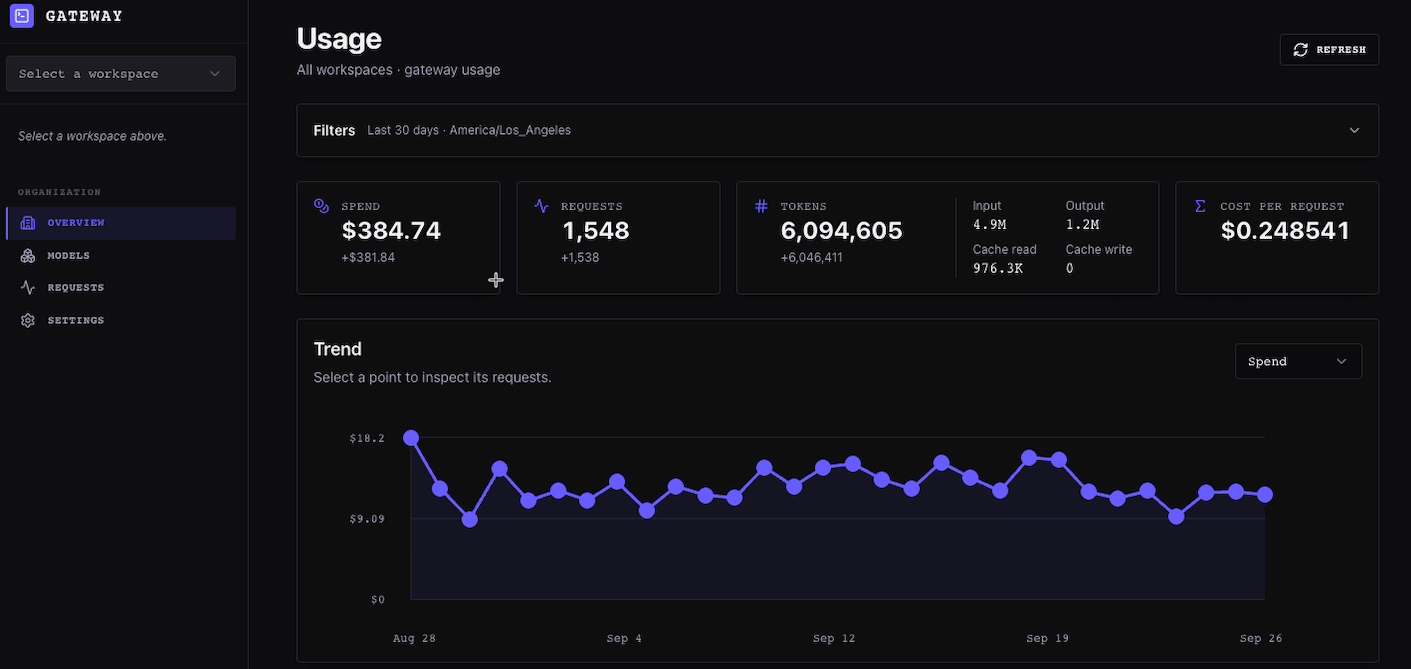
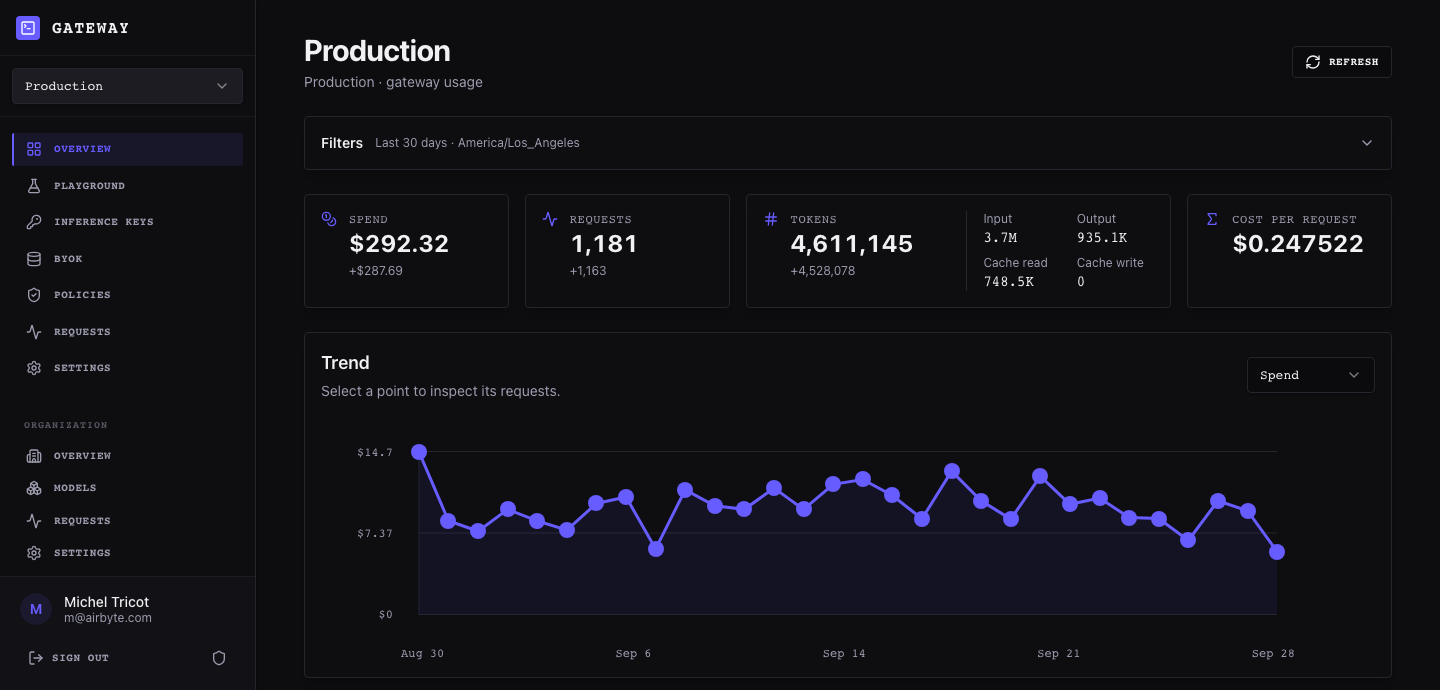
Show Production workspace in README screenshot

diff --git a/README.md b/README.md
@@ -1,7 +1,7 @@
 # `airmux`
 
-`airmux` is a self-hosted gateway between your app and its LLM providers. Change the client's base URL and API key;
-keep using Chat Completions, Responses, or Messages.
+`airmux` is a self-hosted gateway between your agents and their LLM providers. Change the client's base URL and API key and
+keep using `Chat Completions`, `Responses`, or `Messages` endpoints.
 
 <div align="center">
   <p>
@@ -18,9 +18,9 @@ keep using Chat Completions, Responses, or Messages.
   </p>
 </div>
 
-![Organization usage dashboard showing spend, requests, tokens, cost per request, and a trend chart](docs/images/readme-screenshot.png)
+![Production workspace usage dashboard showing spend, requests, tokens, cost per request, and a trend chart](docs/images/readme-screenshot.png)
 
-*Example organization usage in the webapp, using synthetic data*
+*Example Production workspace usage in the webapp, using synthetic data*
 
 For each request, `airmux` applies workspace policy, picks a provider credential, calls the model, and records tokens and cost.
 It replies in the caller's API format.
